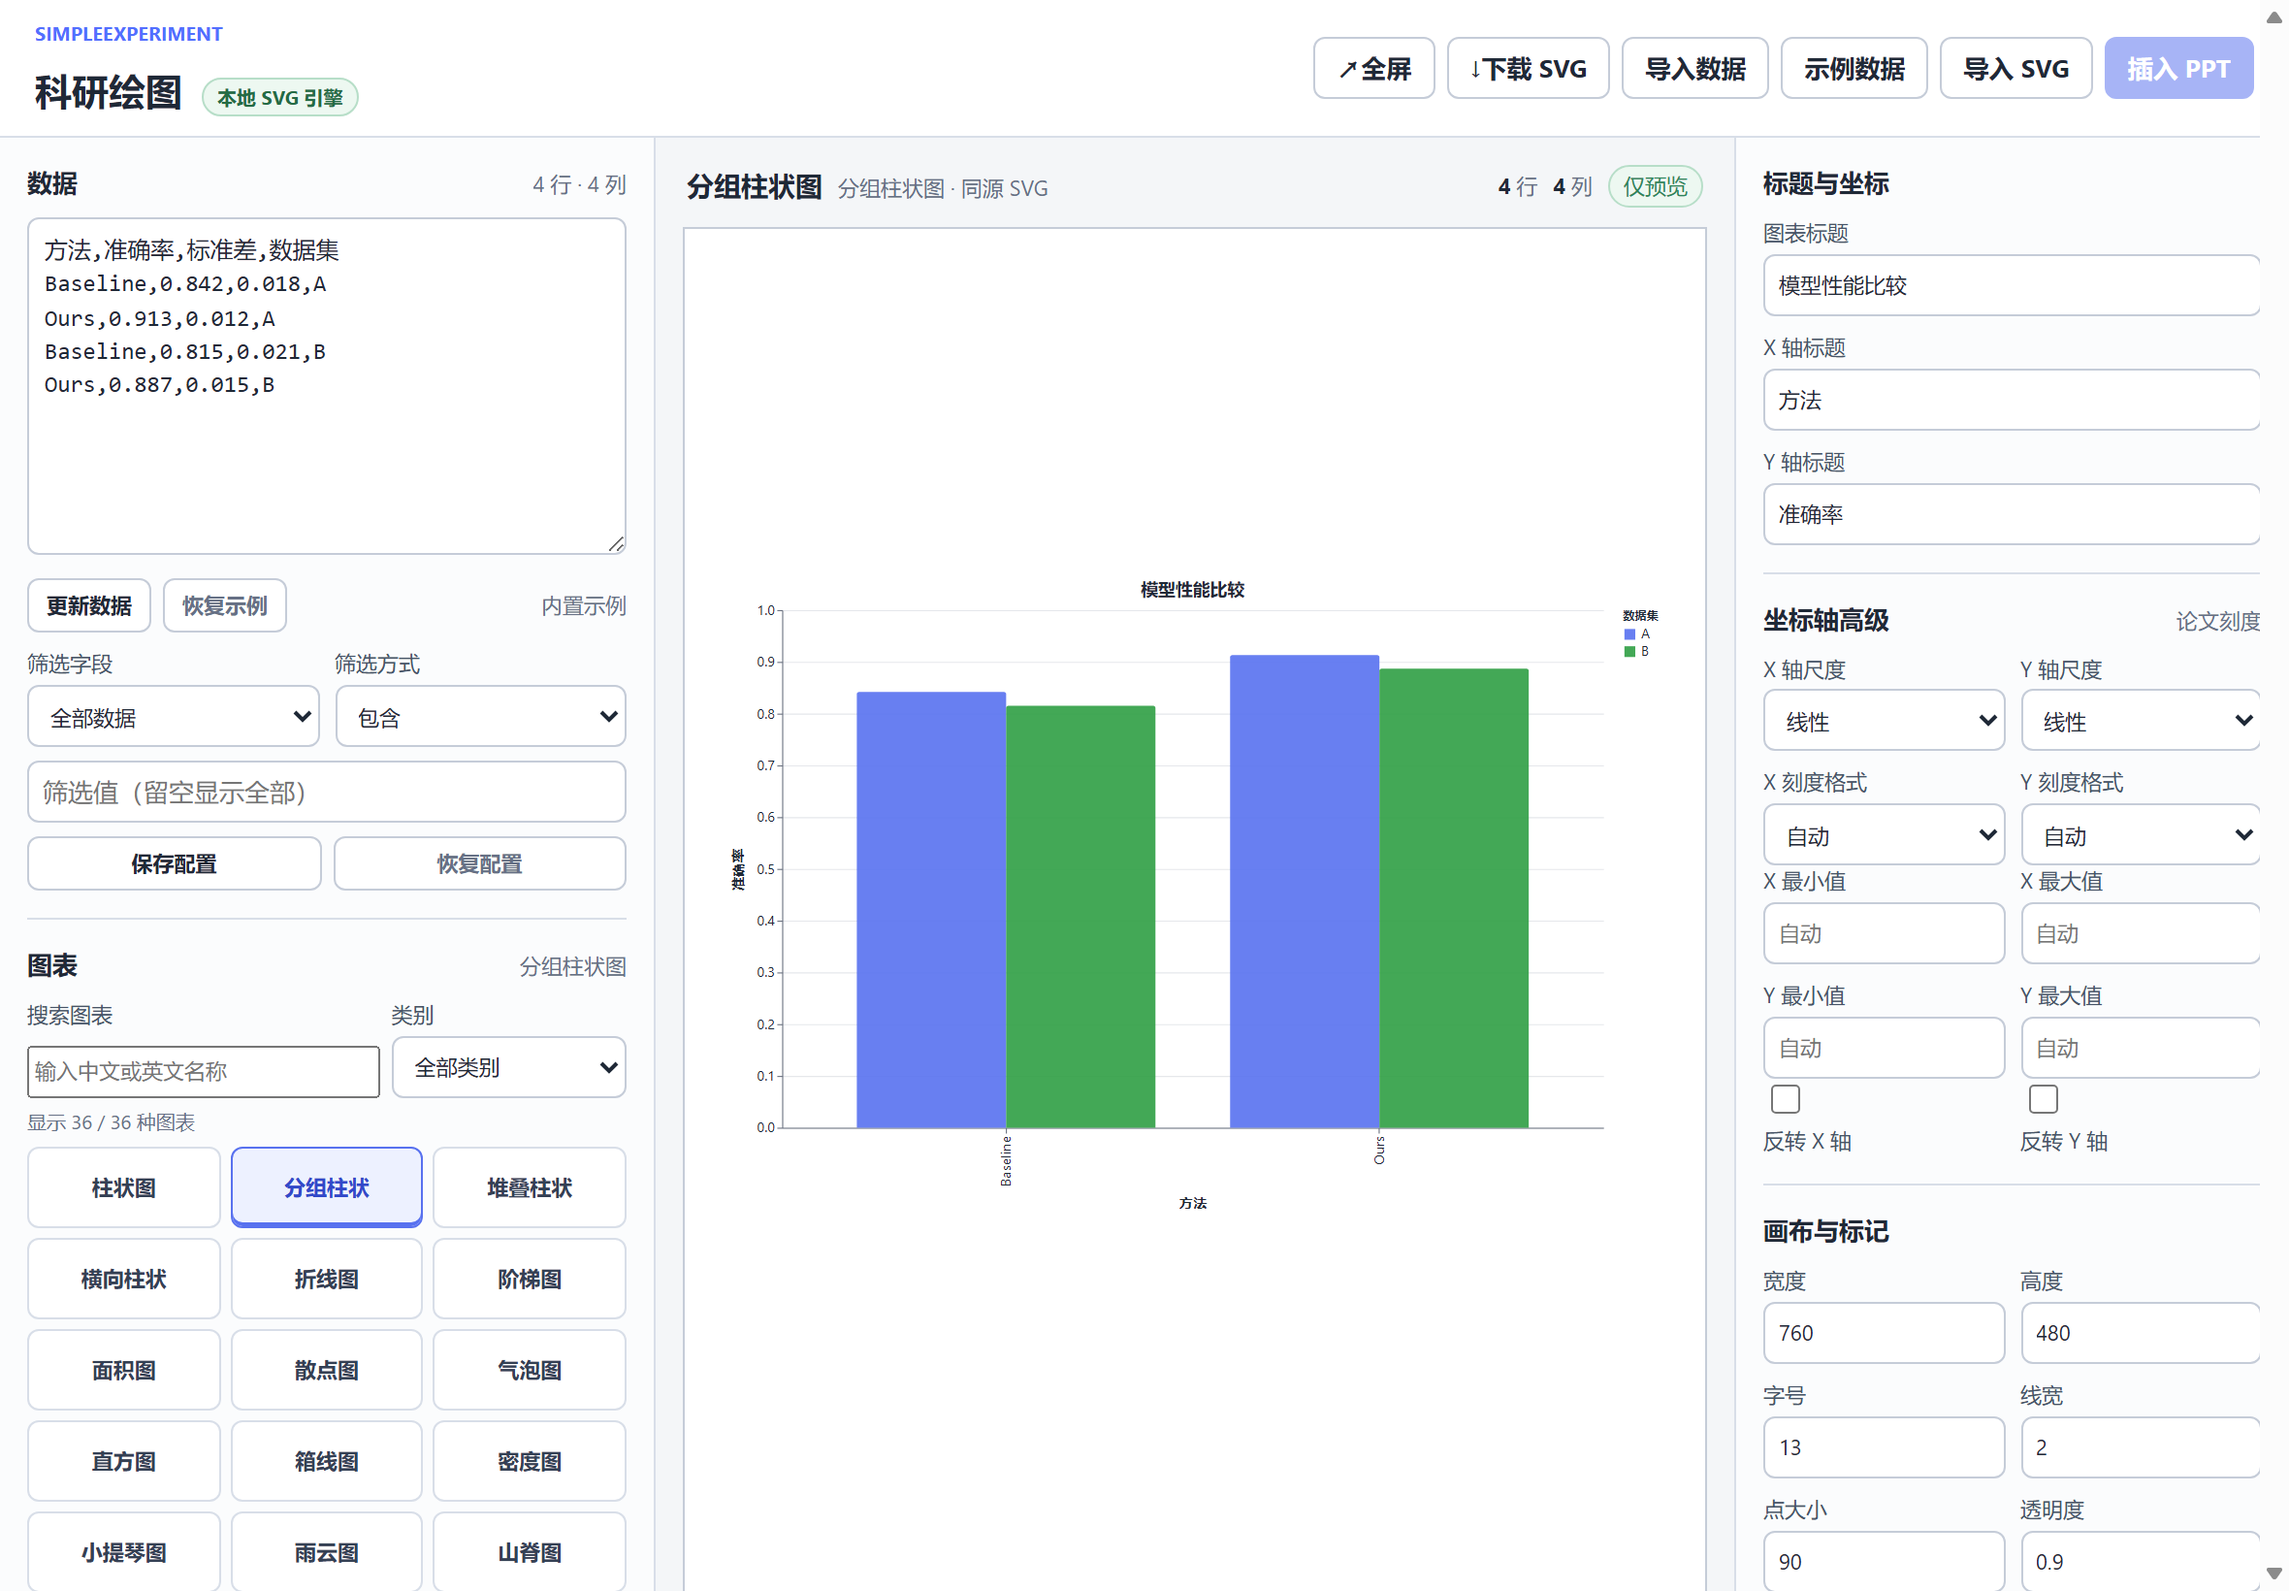
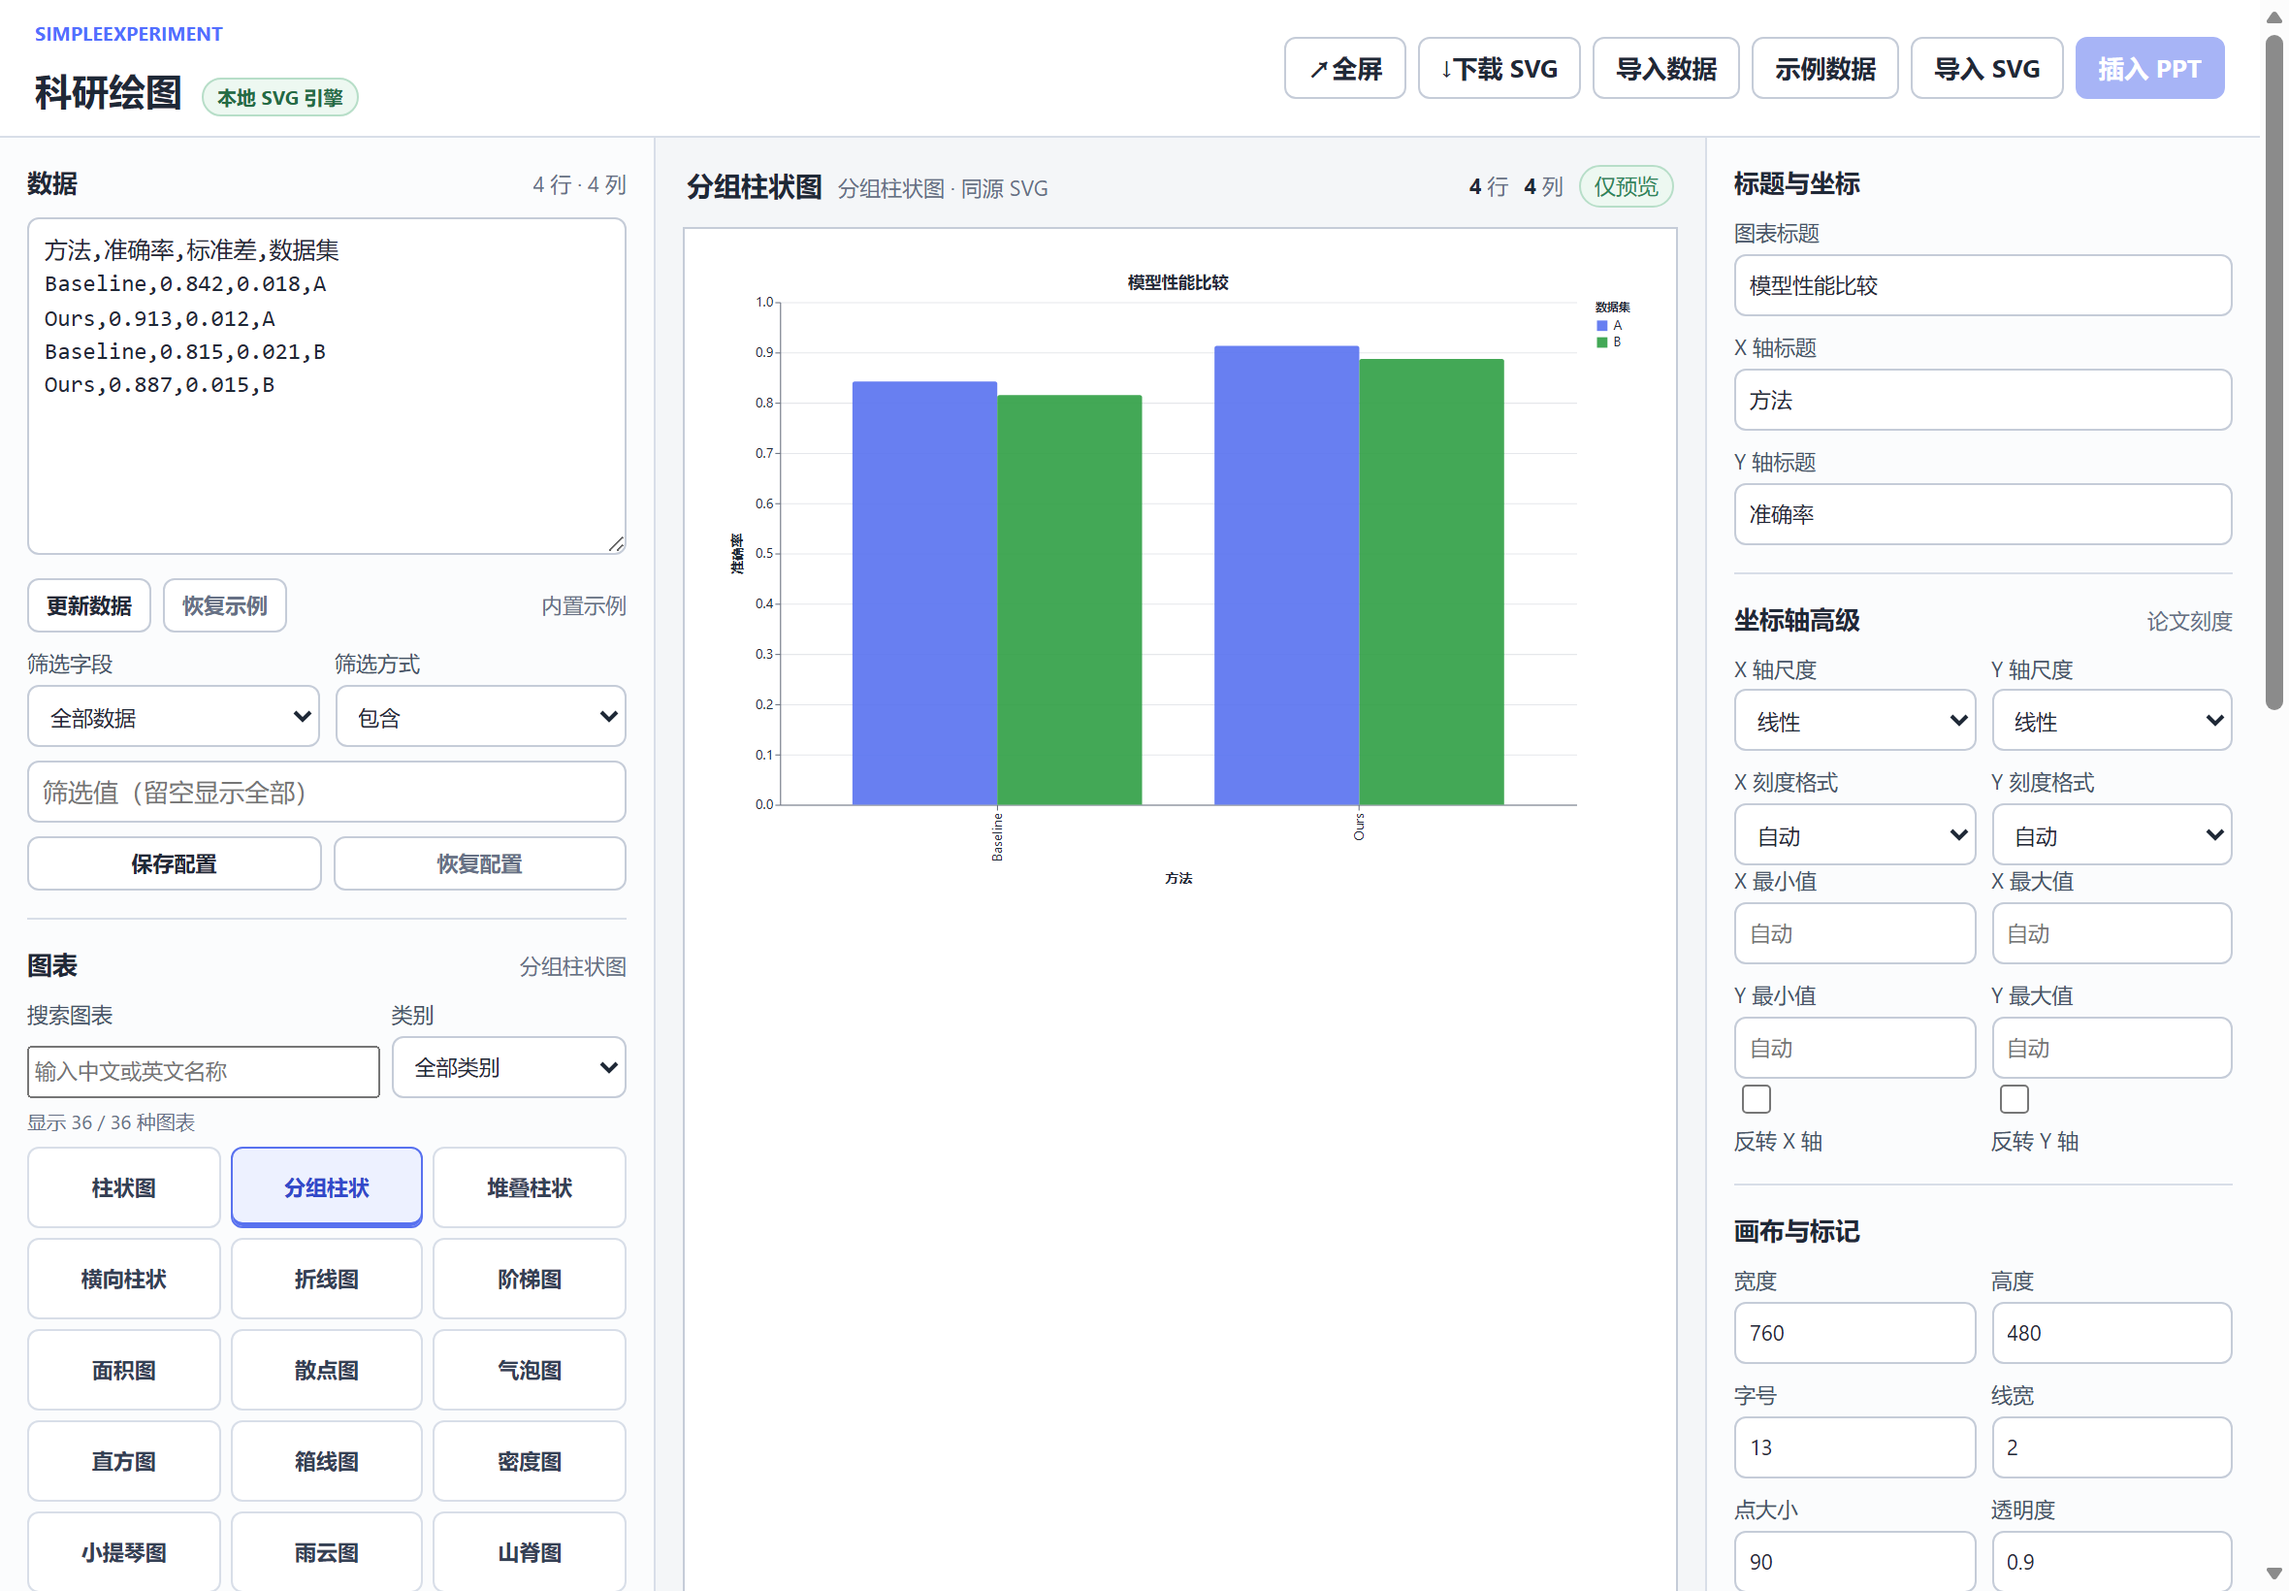
fix: remove research preview vertical padding

diff --git a/src/RoughPptAddin/ui/research-chart-studio.css b/src/RoughPptAddin/ui/research-chart-studio.css
@@ -145,7 +145,7 @@ input[type="text"], input[type="number"], select { padding: 4px 7px; }
 .chart-preview { min-width: 0; max-width: 100%; display: grid; place-items: center; }
 .chart-preview .vega-embed { max-width: 100%; }
 .chart-preview svg { display: block; max-width: 100%; height: auto; }
-.svg-preview-wrap img { display: block; width: 100%; height: 100%; max-width: 100%; max-height: calc(100vh - 160px); object-fit: contain; }
+.svg-preview-wrap img { display: block; width: 100%; height: auto; max-width: 100%; max-height: min(100%, calc(100vh - 160px)); object-fit: contain; margin-inline: auto; }
 .svg-preview-wrap img[hidden], .empty-state[hidden], .chart-preview[hidden] { display: none !important; }
 .empty-state { position: absolute; inset: 0; display: grid; place-items: center; color: var(--muted); pointer-events: none; }
 .studio-status { min-height: 28px; padding: 9px 2px 0; color: var(--muted); font-size: 11px; overflow-wrap: anywhere; }

diff --git a/docs/target-mode-plan.md b/docs/target-mode-plan.md
@@ -90,7 +90,7 @@
 2. B556-B560（已完成）：压缩计划历史；宿主同步失败给出中文反馈；排序假控件获得真实浏览器合同；简洁模式工作台改为紧凑两列；科研绘图默认三栏、窄窗控制先行、预览顶部对齐。B561-B563 纠偏后统一 `npm.cmd test` 与 UI 构建全绿。
 3. B561-B563（已完成）：适配 SimpleExperiment 新端点和 `simple_cluster` 轻量结果路径，保留旧 ZLK 端点与旧项目路径兼容；同步 discovery 双路径和简洁工作台合同。
 4. B564（已完成）：用当前真实界面重新生成四张使用说明截图，消除旧版布局和入口造成的图文不一致。
-5. B565（进行中）：修复科研绘图同源 SVG 预览在超高容器中的内部垂直留白。
+5. B565（已完成）：修复科研绘图同源 SVG 预览在超高容器中的内部垂直留白，并让布局合同检查实际可见的导入预览而非隐藏的生成节点。
 
 ### 下一批次方向
 
@@ -104,6 +104,7 @@
 
 - B561-B563：SimpleExperiment 绘图使用 `/api/simple-experiment/plot` 与 `simple_cluster` 路径；旧 ZLK 端点和旧项目路径仅作兼容。discovery 必须同时声明双路径。
 - B564：使用说明 PNG 是交付资产，必须随界面结构变化重新生成；截图内容需与对应章节的入口和工作区状态一致。
+- B565：同源 SVG 以 `<img>` 展示时不得用固定 100% 高度加 `object-fit: contain` 在超高容器中制造上下留白；布局验证必须选择当前可见预览节点。
 - B559：简洁模式快捷工作台的四个入口必须保持两列紧凑密度；完整模式切换并入同一容器，不得恢复独立整行操作区。
 - B560：科研绘图 1180px 默认窗口保持三栏；780px 以下控制面板先于预览；预览内容从顶部开始，不得留下大片纵向空白。
 - B553-B554：本机存储写入必须经带 try/catch 的 `persistSetting`；裸 `setItem` 抛出会中断同一处理函数里后续的 `render()` 与 `postHost(...)`，让操作静默失效。`app.mjs` 与 `ribbon-shape-gallery.mjs` 各有一处合同锁定该约定。
